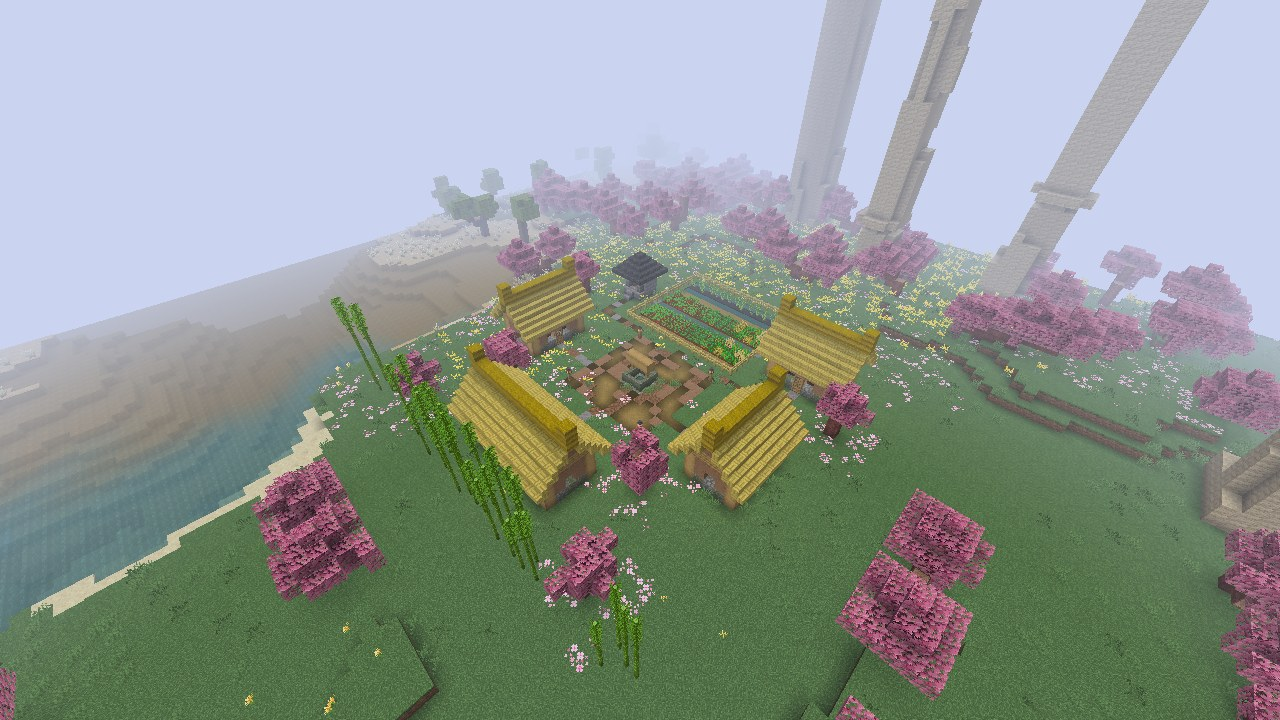
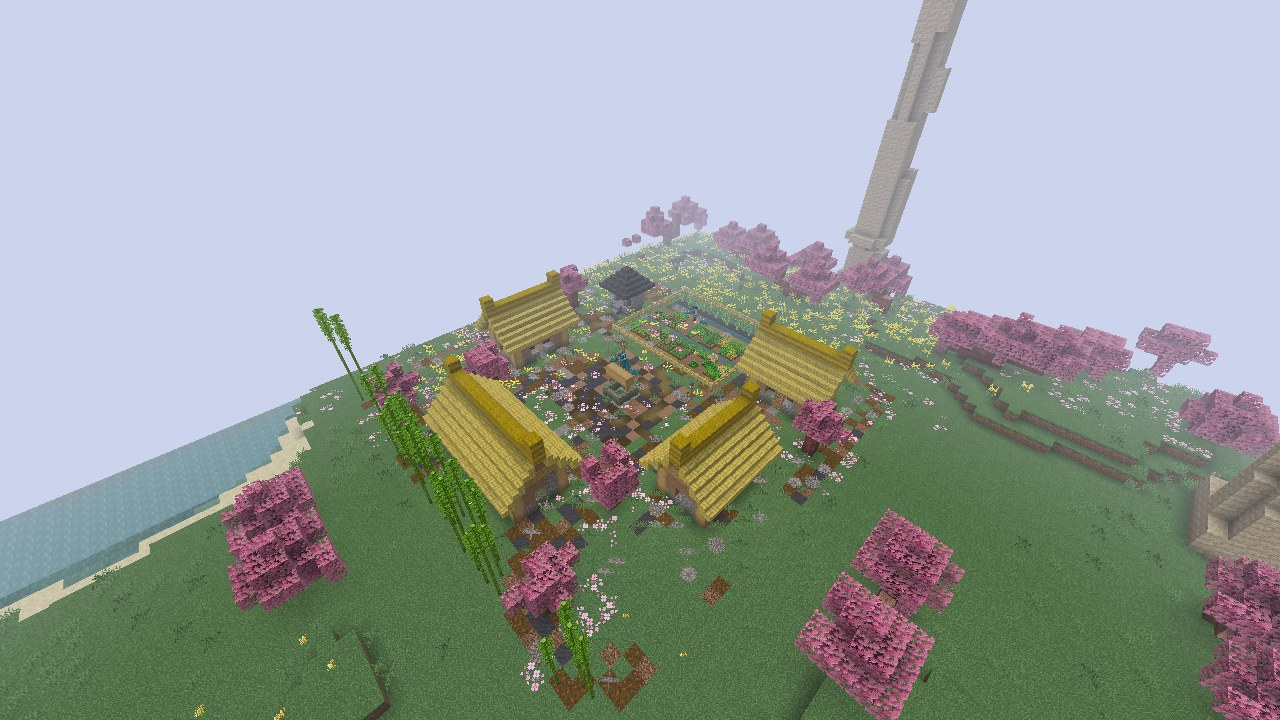
Overrun the Peach Spring Hamlet with the crab men's blight
Three crab men roam the hamlet, each with its two armored crabs: one on
the green, one in the fields, one waiting in a house. A structure's crab
man now makes its escort persistent too.

The blight shows everywhere. Grey dead-coral growths break through about
a third of the earthen walls. The grass rots in blotches of podzol, mud
and coarse dirt, dead corals sprout on dry land, mud spreads on the
green and a third of the crops lie trampled. One door is torn off and
cobwebs hang under the roofs.

SiteGameTests expect three crab men. The site tour counts and
photographs them.

diff --git a/src/main/java/com/murimblock/world/structure/site/PeachHamlet.java b/src/main/java/com/murimblock/world/structure/site/PeachHamlet.java
@@ -1,5 +1,6 @@
 package com.murimblock.world.structure.site;
 
+import com.murimblock.mob.MurimEntities;
 import com.murimblock.world.block.MurimBlocks;
 import com.murimblock.world.structure.kit.RoofTiles;
 import java.util.List;
@@ -14,6 +15,7 @@ import net.minecraft.world.level.block.PinkPetalsBlock;
 import net.minecraft.world.level.block.Rotation;
 import net.minecraft.world.level.block.state.BlockState;
 import net.minecraft.world.level.block.state.properties.BambooLeaves;
+import net.minecraft.world.level.block.state.properties.BlockStateProperties;
 import net.minecraft.world.level.block.state.properties.Half;
 
 import static com.murimblock.world.structure.kit.BuildKit.hangingLantern;
@@ -23,7 +25,11 @@ import static com.murimblock.world.structure.kit.BuildKit.stair;
  * Peach Spring Hamlet (peach blossom valley), after Tao Yuanming's hidden village: rammed earth houses under thatch
  * round a green with a well, the unpainted hall of the elders, a little shrine to the god of the soil, fields fenced
  * with bamboo (crops on either side of an irrigation channel, a strip of rice), peach trees shedding petals and a
- * bamboo screen behind. Nothing marks rank: the strangeness of the place is that it is intact.
+ * bamboo screen behind. Nothing marks rank.
+ * <p>And the blight has come (Enzo's request, 14/10): the crab men's disease has reached the hamlet. Three crab men
+ * roam it, each with its two armored crabs (one on the green, one in the fields, one in a house); grey growths like
+ * dead coral spread on the earthen walls, dead corals sprout on the ground, crops lie trampled, mud spreads on the
+ * green, a door is torn off, cobwebs hang in the corners. Nobody is left.
  */
 final class PeachHamlet extends Site {
     /** Thatch: bamboo mosaic for the slopes (golden, woven), hay for the ridge. */
@@ -69,6 +75,53 @@ final class PeachHamlet extends Site {
             bamboo(c, x, z, g);
         }
         for (int[] p : new int[][]{{-5, -5}, {5, -5}, {-5, 5}, {5, 5}}) lanternPost(c, p[0], g + 1, p[1], 1, s(Blocks.OAK_FENCE));
+        blight(c, g);
+    }
+
+    /** Whether the blight has rotted the grass here: about a third of the hamlet, in blotches 3 to 6 blocks across. */
+    private static boolean blotch(Canvas c, int x, int z, int g) {
+        int bx = Math.floorDiv(x, 4), bz = Math.floorDiv(z, 4);
+        double coarse = 0;
+        for (int dx = 0; dx <= 1; dx++) for (int dz = 0; dz <= 1; dz++) {
+            double wx = dx == 0 ? 1 - Math.floorMod(x, 4) / 4.0 : Math.floorMod(x, 4) / 4.0;
+            double wz = dz == 0 ? 1 - Math.floorMod(z, 4) / 4.0 : Math.floorMod(z, 4) / 4.0;
+            coarse += wx * wz * c.rand(bx + dx, g - 9, bz + dz);
+        }
+        return coarse + 0.25 * (c.rand(x, g - 8, z) - 0.5) > 0.6;
+    }
+
+    /** Dead corals that grow on dry land here: the blight's sprouts. */
+    private static final Block[] SPROUTS = {Blocks.DEAD_BRAIN_CORAL, Blocks.DEAD_TUBE_CORAL, Blocks.DEAD_FIRE_CORAL_FAN, Blocks.DEAD_HORN_CORAL_FAN, Blocks.DEAD_BUBBLE_CORAL};
+
+    /**
+     * The blight over the open ground: mud on the green, dead corals sprouting from the grass and the paths, crops
+     * trampled; and the crab men who brought it (the third waits in a house, see house).
+     */
+    private static void blight(Canvas c, int g) {
+        for (int x = -19; x <= 19; x++) for (int z = -19; z <= 19; z++) {
+            if (!c.inside(x, z)) continue;
+            BlockState ground = c.get(x, g, z), above = c.get(x, g + 1, z);
+            boolean green = Math.abs(x) <= 5 && Math.abs(z) <= 5 && Math.max(Math.abs(x), Math.abs(z)) >= 2;
+            if (green && above.isAir() && c.chance(x, g - 3, z, 0.3)) { c.set(x, g, z, s(Blocks.MUD)); continue; }
+            // The grass rotting in patches: blotches that grow together (a coarse noise, then a fine one).
+            if (ground.is(Blocks.GRASS_BLOCK) && blotch(c, x, z, g)) {
+                c.set(x, g, z, c.pick(x, g - 4, z, s(Blocks.PODZOL), s(Blocks.MUD), s(Blocks.COARSE_DIRT), s(Blocks.PODZOL)));
+                if (!above.isAir() && !above.is(Blocks.PINK_PETALS)) continue;
+                c.set(x, g + 1, z, AIR);
+                ground = c.get(x, g, z);
+                above = AIR;
+            }
+            if (above.isAir() && (ground.is(Blocks.GRASS_BLOCK) || ground.is(Blocks.DIRT_PATH) || ground.is(Blocks.COARSE_DIRT)
+                    || ground.is(Blocks.PODZOL) || ground.is(Blocks.MUD)) && c.chance(x, g + 5, z, 0.12)) {
+                Block sprout = SPROUTS[(int) (c.rand(x, g + 6, z) * SPROUTS.length)];
+                c.set(x, g + 1, z, sprout.defaultBlockState().setValue(BlockStateProperties.WATERLOGGED, false));
+            } else if (ground.is(Blocks.FARMLAND) && !above.isAir() && c.chance(x, g + 7, z, 0.35)) {
+                c.set(x, g + 1, z, AIR);
+                c.set(x, g, z, s(Blocks.COARSE_DIRT));
+            }
+        }
+        c.spawn(3, g + 1, 3, Direction.SOUTH, MurimEntities.CRAB_MAN.get(), crabMan -> { });
+        c.spawn(4, g + 1, 16, Direction.NORTH, MurimEntities.CRAB_MAN.get(), crabMan -> { });
     }
 
     private static boolean nearPeach(int x, int z, double r) {
@@ -104,7 +157,9 @@ final class PeachHamlet extends Site {
             for (int y = g + 1; y <= g + 3; y++) {
                 if (!edge) { h.set(x, y, z, AIR); continue; }
                 boolean corner = Math.abs(x) == w && (z == z0 || z == z1);
-                h.set(x, y, z, corner ? POST : y == g + 1 ? h.pick(x, y, z, s(Blocks.COBBLESTONE), s(Blocks.MOSSY_COBBLESTONE)) : EARTH);
+                // The blight's grey growths spreading on the earth.
+                BlockState wall = h.chance(x, y + 11, z, 0.3) ? h.pick(x, y + 12, z, s(Blocks.DEAD_BRAIN_CORAL_BLOCK), s(Blocks.DEAD_TUBE_CORAL_BLOCK)) : EARTH;
+                h.set(x, y, z, corner ? POST : y == g + 1 ? h.pick(x, y, z, s(Blocks.COBBLESTONE), s(Blocks.MOSSY_COBBLESTONE)) : wall);
             }
         }
         h.carried(-w, z0, w, z1, g);
@@ -140,6 +195,14 @@ final class PeachHamlet extends Site {
             h.set(2, y, 1, s(Blocks.POTTED_OAK_SAPLING));
             h.set(-2, y, 1, s(Blocks.WHITE_CARPET));
         }
+        // Abandoned: cobwebs in the corners under the roof, one door torn off, a crab man waiting in the last house.
+        h.set(-w + 1, g + 3, z0 + 1, s(Blocks.COBWEB));
+        if (kind != 0) h.set(w - 1, g + 3, z1 - 1, s(Blocks.COBWEB));
+        if (kind == 2) {
+            h.set(0, g + 1, z1, AIR);
+            h.set(0, g + 2, z1, AIR);
+        }
+        if (kind == 3) h.spawn(1, y, 0, Direction.SOUTH, MurimEntities.CRAB_MAN.get(), crabMan -> { });
     }
 
     /** The shrine to the god of the soil (frame: front +z): a stone niche under a tiny tiled roof, with offerings. */

diff --git a/src/main/java/com/murimblock/mob/CrabManEntity.java b/src/main/java/com/murimblock/mob/CrabManEntity.java
@@ -124,7 +124,8 @@ public final class CrabManEntity extends Monster {
     @Override @Nullable
     public SpawnGroupData finalizeSpawn(ServerLevelAccessor level, DifficultyInstance difficulty, MobSpawnType reason, @Nullable SpawnGroupData data) {
         SpawnGroupData result = super.finalizeSpawn(level, difficulty, reason, data);
-        spawnEscort(level, difficulty);
+        // Placed by a structure, its crabs stay with it, as it does (Canvas.spawn keeps it from despawning).
+        spawnEscort(level, difficulty, reason == MobSpawnType.STRUCTURE);
         return result;
     }
 
@@ -133,21 +134,27 @@ public final class CrabManEntity extends Monster {
      * own position, where entity pushing separates them. Free means no block collision; a crab may drop a step.
      */
     public int spawnEscort(ServerLevelAccessor level, DifficultyInstance difficulty) {
+        return spawnEscort(level, difficulty, false);
+    }
+
+    /** The same; {@code persistent}: the crabs never despawn (a structure's). */
+    public int spawnEscort(ServerLevelAccessor level, DifficultyInstance difficulty, boolean persistent) {
         int spawned = 0;
         for (double[] offset : ESCORT_OFFSETS) {
             if (spawned == ESCORT_SIZE) break;
-            if (placeCrab(level, difficulty, getX() + offset[0], getZ() + offset[1], true)) spawned++;
+            if (placeCrab(level, difficulty, getX() + offset[0], getZ() + offset[1], true, persistent)) spawned++;
         }
-        while (spawned < ESCORT_SIZE && placeCrab(level, difficulty, getX(), getZ(), false)) spawned++;
+        while (spawned < ESCORT_SIZE && placeCrab(level, difficulty, getX(), getZ(), false, persistent)) spawned++;
         return spawned;
     }
 
-    private boolean placeCrab(ServerLevelAccessor level, DifficultyInstance difficulty, double x, double z, boolean needsRoom) {
+    private boolean placeCrab(ServerLevelAccessor level, DifficultyInstance difficulty, double x, double z, boolean needsRoom, boolean persistent) {
         ArmoredCrabEntity crab = MurimEntities.ARMORED_CRAB.get().create(level.getLevel());
         if (crab == null) return false;
         crab.moveTo(x, getY(), z, random.nextFloat() * 360, 0);
         if (needsRoom && !level.noBlockCollision(crab, crab.getBoundingBox())) return false;
         crab.finalizeSpawn(level, difficulty, MobSpawnType.MOB_SUMMONED, null);
+        if (persistent) crab.setPersistenceRequired();
         level.addFreshEntityWithPassengers(crab);
         return true;
     }

diff --git a/src/gameTest/java/com/murimblock/SiteTour.java b/src/gameTest/java/com/murimblock/SiteTour.java
@@ -29,6 +29,7 @@ import net.minecraft.world.entity.npc.Villager;
 import net.minecraft.core.registries.BuiltInRegistries;
 import com.murimblock.mob.AzureSenseiEntity;
 import com.murimblock.mob.BanditChiefEntity;
+import com.murimblock.mob.CrabManEntity;
 import com.murimblock.mob.MountainBanditEntity;
 import com.murimblock.world.structure.site.SitePlan;
 import java.util.Map;
@@ -150,7 +151,7 @@ public final class SiteTour {
                         if (residents.isEmpty()) return;
                         // From the corner of the resident's own room farthest from them, at eye height.
                         Mob v = residents.get(0);
-                        subject = v instanceof Villager ? "villager" : v instanceof AzureSenseiEntity ? "sensei" : "chief";
+                        subject = v instanceof Villager ? "villager" : v instanceof AzureSenseiEntity ? "sensei" : v instanceof CrabManEntity ? "crab-man" : "chief";
                         Vec3 eye = v.getEyePosition();
                         BoundingBox room = site.rooms().stream().filter(r -> r.isInside(v.blockPosition())).findFirst()
                                 .orElse(site.rooms().stream().min(java.util.Comparator.comparingDouble(r -> r.getCenter().distSqr(v.blockPosition()))).orElseThrow());
@@ -248,7 +249,7 @@ public final class SiteTour {
     /** Villagers and bandits on the site, the chief first, then by name. */
     private static List<Mob> residents(Minecraft mc, Site s) {
         return mc.getSingleplayerServer().overworld().getEntitiesOfClass(Mob.class, net.minecraft.world.phys.AABB.of(s.box()).inflate(4, 16, 4), // down into pits and caves
-                        m -> m instanceof Villager || m instanceof MountainBanditEntity || m instanceof BanditChiefEntity || m instanceof AzureSenseiEntity).stream()
+                        m -> m instanceof Villager || m instanceof MountainBanditEntity || m instanceof BanditChiefEntity || m instanceof AzureSenseiEntity || m instanceof CrabManEntity).stream()
                 .sorted(java.util.Comparator.<Mob>comparingInt(m -> m instanceof BanditChiefEntity ? 0 : 1).thenComparing(m -> m.getName().getString())).toList();
     }
 

diff --git a/src/gameTest/java/com/murimblock/SiteGameTests.java b/src/gameTest/java/com/murimblock/SiteGameTests.java
@@ -146,6 +146,7 @@ public final class SiteGameTests {
             case STILT_VILLAGE -> Map.of("minecraft:villager", 3);
             case BANDIT_DEN -> Map.of("murimblock:bandit_chief", 1, "murimblock:mountain_bandit", 4);
             case BAMBOO_TEMPLE -> Map.of("murimblock:azure_sensei", 1);
+            case PEACH_HAMLET -> Map.of("murimblock:crab_man", 3);
             default -> Map.of();
         };
     }

diff --git a/docs/structures/peach_spring_hamlet.md b/docs/structures/peach_spring_hamlet.md
@@ -3,6 +3,7 @@
 ![Vue aérienne : les maisons de terre autour du pré, les champs, les pêchers](images/sites/peach_spring_hamlet-a.jpg)
 ![Vue de l'autre côté](images/sites/peach_spring_hamlet-b.jpg)
 ![En arrivant](images/sites/peach_spring_hamlet-ground.jpg)
+![Un homme-crabe et son crabe dans une maison abandonnée](images/sites/peach_spring_hamlet-crab-man.jpg)
 
 | Fiche | |
 |---|---|
@@ -28,6 +29,19 @@
 - **Six pêchers en fleur**, des pétales roses tombés dans l'herbe autour d'eux.
 - **Un écran de bambous** à l'arrière du hameau.
 
+### Envahi par la maladie (14/10, demande d'Enzo)
+
+La maladie des hommes-crabes a gagné le hameau ; il n'y reste personne.
+
+- **Ses occupants**, apparus avec le hameau et qui ne disparaissent pas : **3 hommes-crabes** (`murimblock:crab_man`),
+  chacun avec ses **2 crabes cuirassés** (`murimblock:armored_crab`, eux aussi permanents) : un sur le pré près du
+  puits, un dans les champs, un qui attend dans la dernière maison. Ils ne reviennent pas une fois tués. En difficulté
+  Paisible, Minecraft les retire comme tous les monstres.
+- **La rouille de la maladie** : des excroissances grises (blocs de corail mort) percent les murs de terre (environ un
+  bloc sur trois), l'herbe pourrit par plaques (podzol, boue, terre grossière, environ un tiers du hameau), des coraux
+  morts poussent sur la terre ferme, la boue gagne le pré, un tiers des cultures est piétiné.
+- **L'abandon** : la porte d'une maison est arrachée, des toiles d'araignée pendent dans les coins sous les toits.
+
 **Chemins** (terre battue et gravier) : chaque porte, le temple du dieu du sol et le portillon des champs mènent au pré. Aucun chemin ne finit dans le vide.
 
 ## Vérification (14/10/2026)
@@ -36,11 +50,14 @@
 - **Visite en vrai client** (`gradlew -PgameTests runSiteTour`, monde neuf, graine 20261012) :
   - `/locate structure murimblock:peach_spring_hamlet` répond en 83 ms : `[1120, ~, 2240]`, à 2504 blocs du point de départ ;
   - le site généré est dans `peach_blossom_valley` (origine 1128 63 2248, tourné NONE, niveau du sol 63) ;
-  - 20 vérifications sur le site réellement généré : aucun toit ouvert, rien de naturel dans les pièces, aucun sol ni fondation au-dessus du vide.
+  - 20 vérifications sur le site réellement généré : aucun toit ouvert, rien de naturel dans les pièces, aucun sol ni fondation au-dessus du vide ;
+  - en difficulté Normale, les 3 hommes-crabes sont là (un dans une maison avec son crabe, photo ci-dessus).
+- Les GameTests vérifient aussi qu'il y a exactement 3 hommes-crabes, construit d'un coup comme chunk par chunk.
 
 ## Conseils : ce qu'on devrait y mettre
 
-- **PNJ** : des villageois « hors du temps » qui ne connaissent ni l'empereur ni les sectes ; un ancien qui raconte l'histoire du lieu.
+- **PNJ** : il n'en reste plus (le hameau est envahi) ; un survivant caché, ou un ancien qui raconte comment la maladie est venue, ferait une bonne quête.
+- **Nettoyage** : une quête « purifier le hameau » (tuer les hommes-crabes, brûler les excroissances) qui rendrait le hameau à des villageois.
 - **Secret** : ce sont les seuls à ne pas réagir au rang de cultivation du joueur. Une quête pourrait révéler pourquoi (une formation qui cache la vallée, un ancien maître retiré).
 - **Récolte** : les pêches (été) et une rare **pêche d'immortalité** pour la cultivation ; graines et outils à échanger.
 - **Animaux** : poules, cochons, un buffle, canards mandarins sur l'eau.

diff --git a/docs/structures/README.md b/docs/structures/README.md
@@ -13,7 +13,7 @@ Six structures de plus, une par biome Murim (le Huangshan a déjà le sanctuaire
 | Relais de la Tour à Signaux de la Porte de Jade (`jade_gate_beacon_post`) | Désert du Hexi | Relais fortifié de la route de la soie, tour à signaux fumante | [fiche](jade_gate_beacon_post.md) |
 | Temple taoïste de la Mer de Bambous brumeuse (`misty_bamboo_temple`) | Mer de bambous de Shu | Trois terrasses, taiji, escalier couvert, salle des Trois Purs ; Sensei Yun, maître du Nuage Azur | [fiche](misty_bamboo_temple.md) |
 | Jardin de la Lune et des Lotus (`lotus_moon_garden`) | Pays des eaux du Jiangnan | Jardin de lettré : porte de lune, étang, pont en zigzag, galerie | [fiche](lotus_moon_garden.md) |
-| Hameau de la Source aux Fleurs de Pêcher (`peach_spring_hamlet`) | Vallée des fleurs de pêcher | Maisons de terre et de chaume, champs, temple du dieu du sol | [fiche](peach_spring_hamlet.md) |
+| Hameau de la Source aux Fleurs de Pêcher (`peach_spring_hamlet`) | Vallée des fleurs de pêcher | Maisons de terre et de chaume, champs, temple du dieu du sol ; envahi par la maladie : 3 hommes-crabes et leurs crabes | [fiche](peach_spring_hamlet.md) |
 
 ### Comment elles sont faites
 
